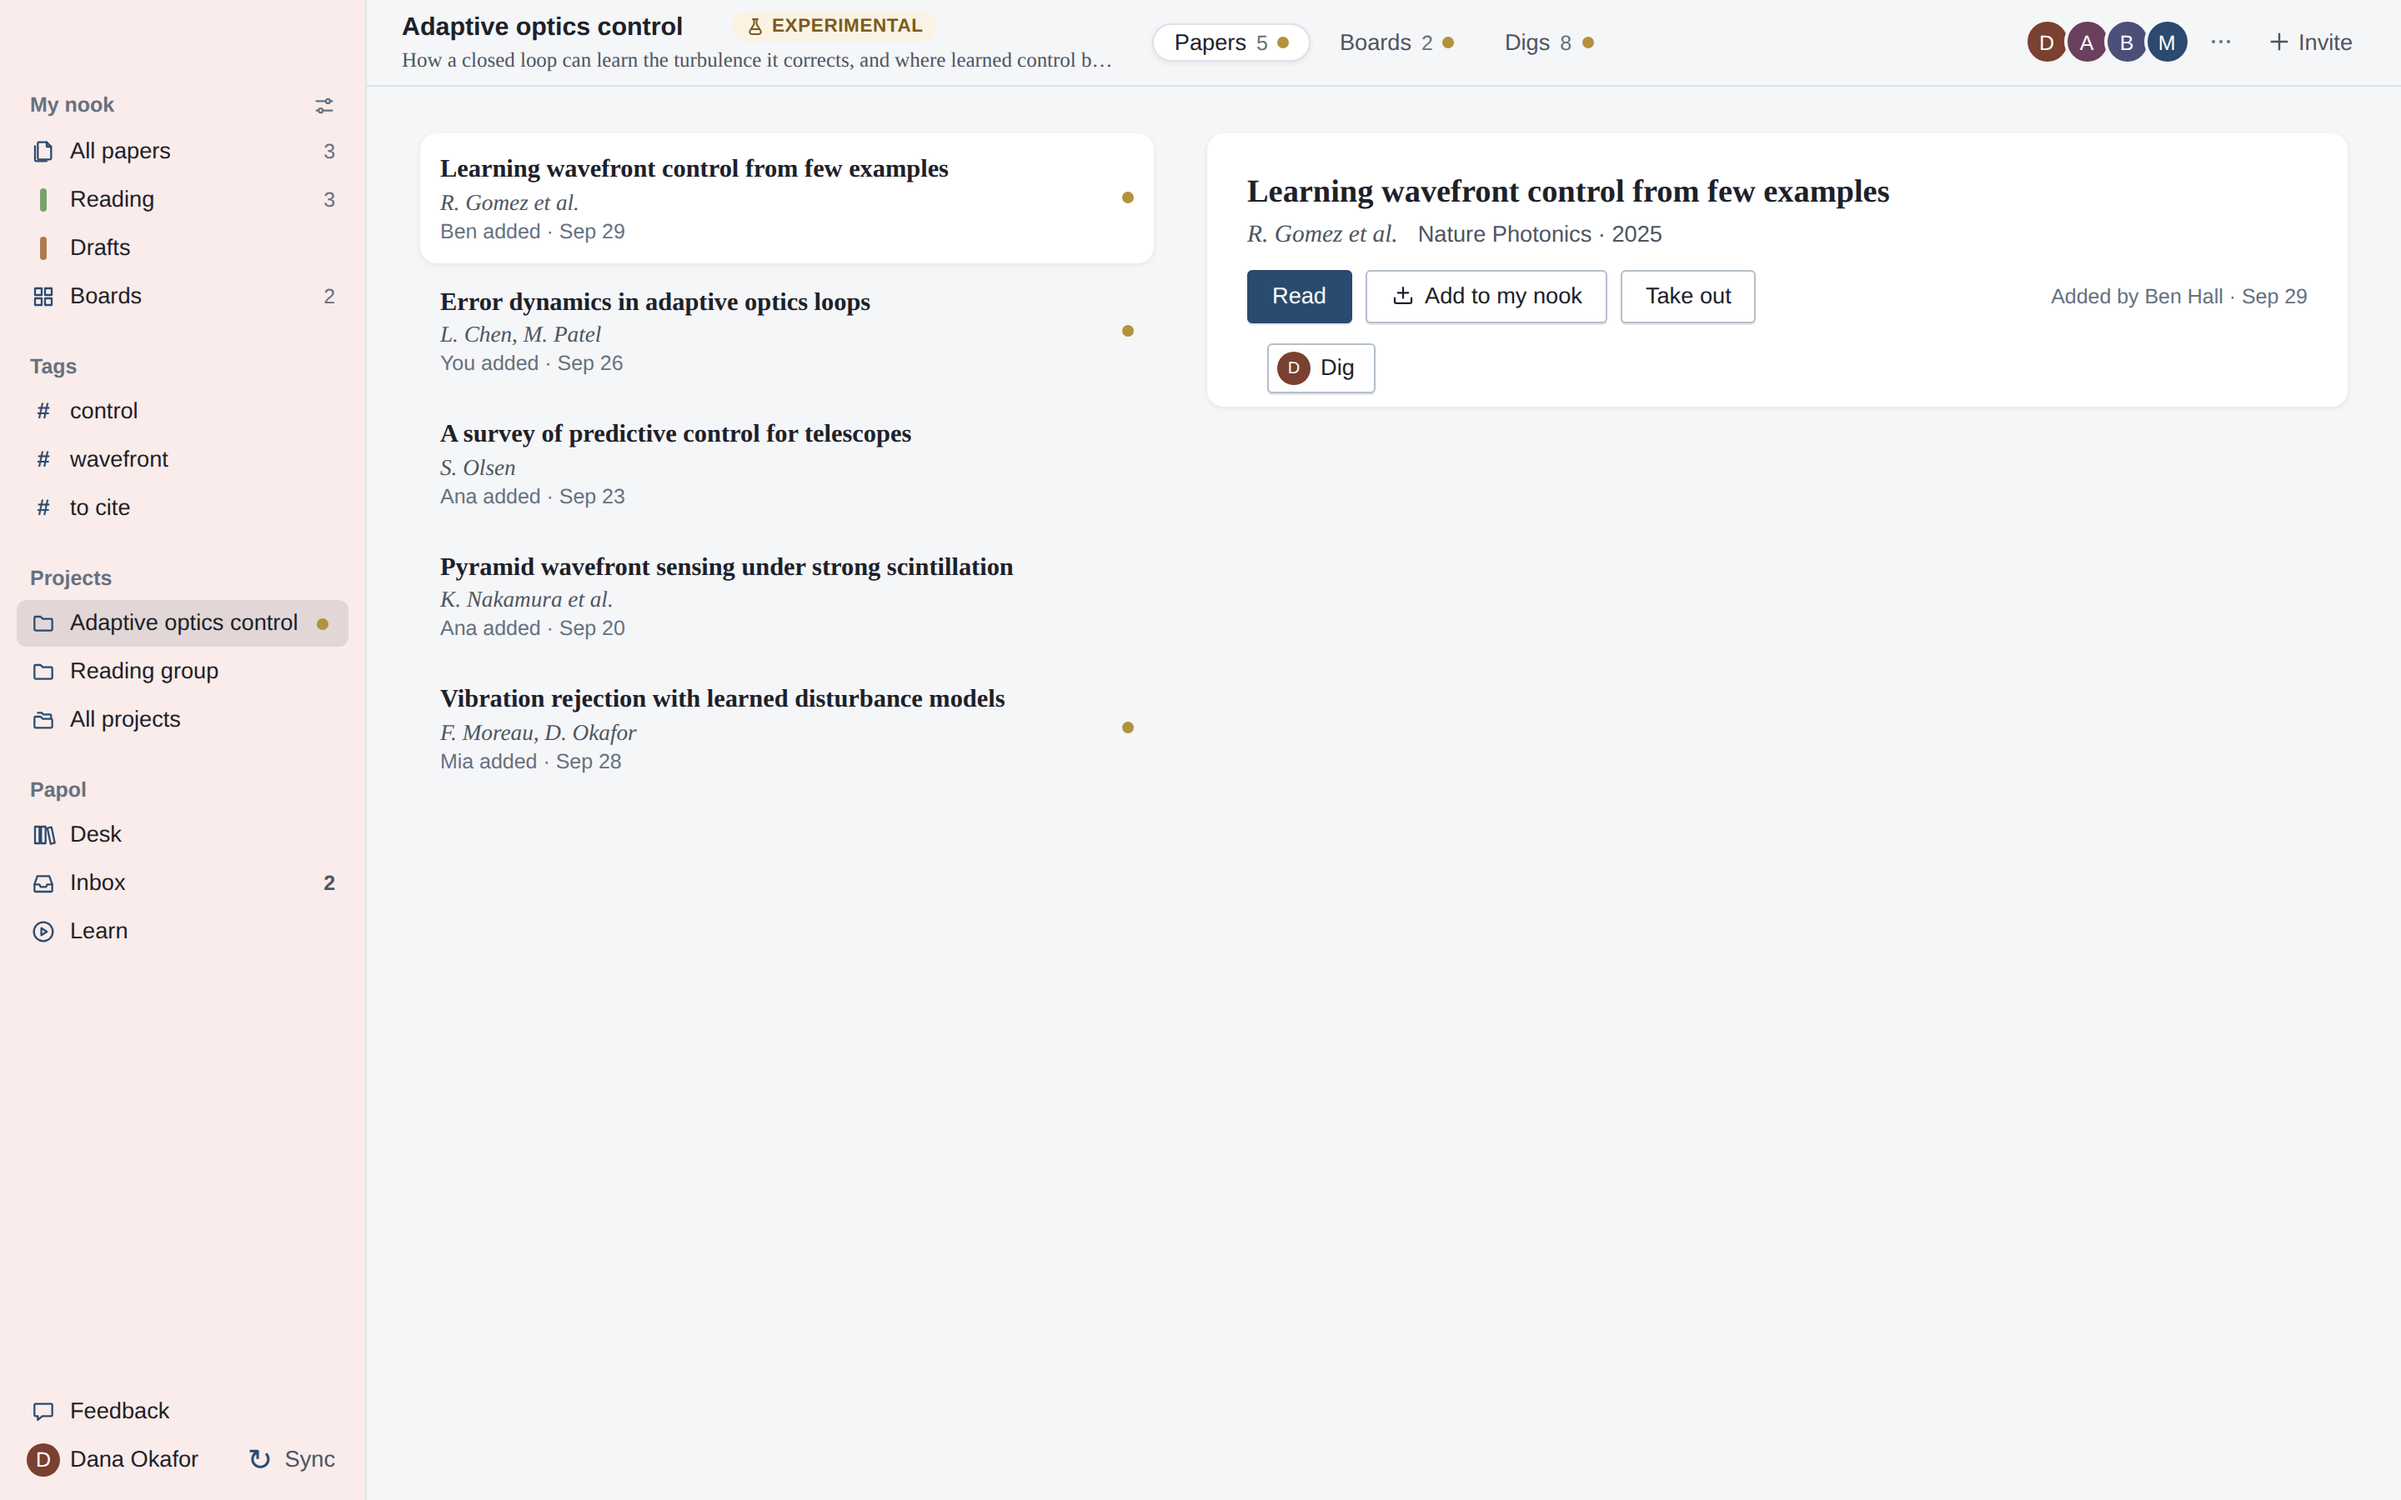
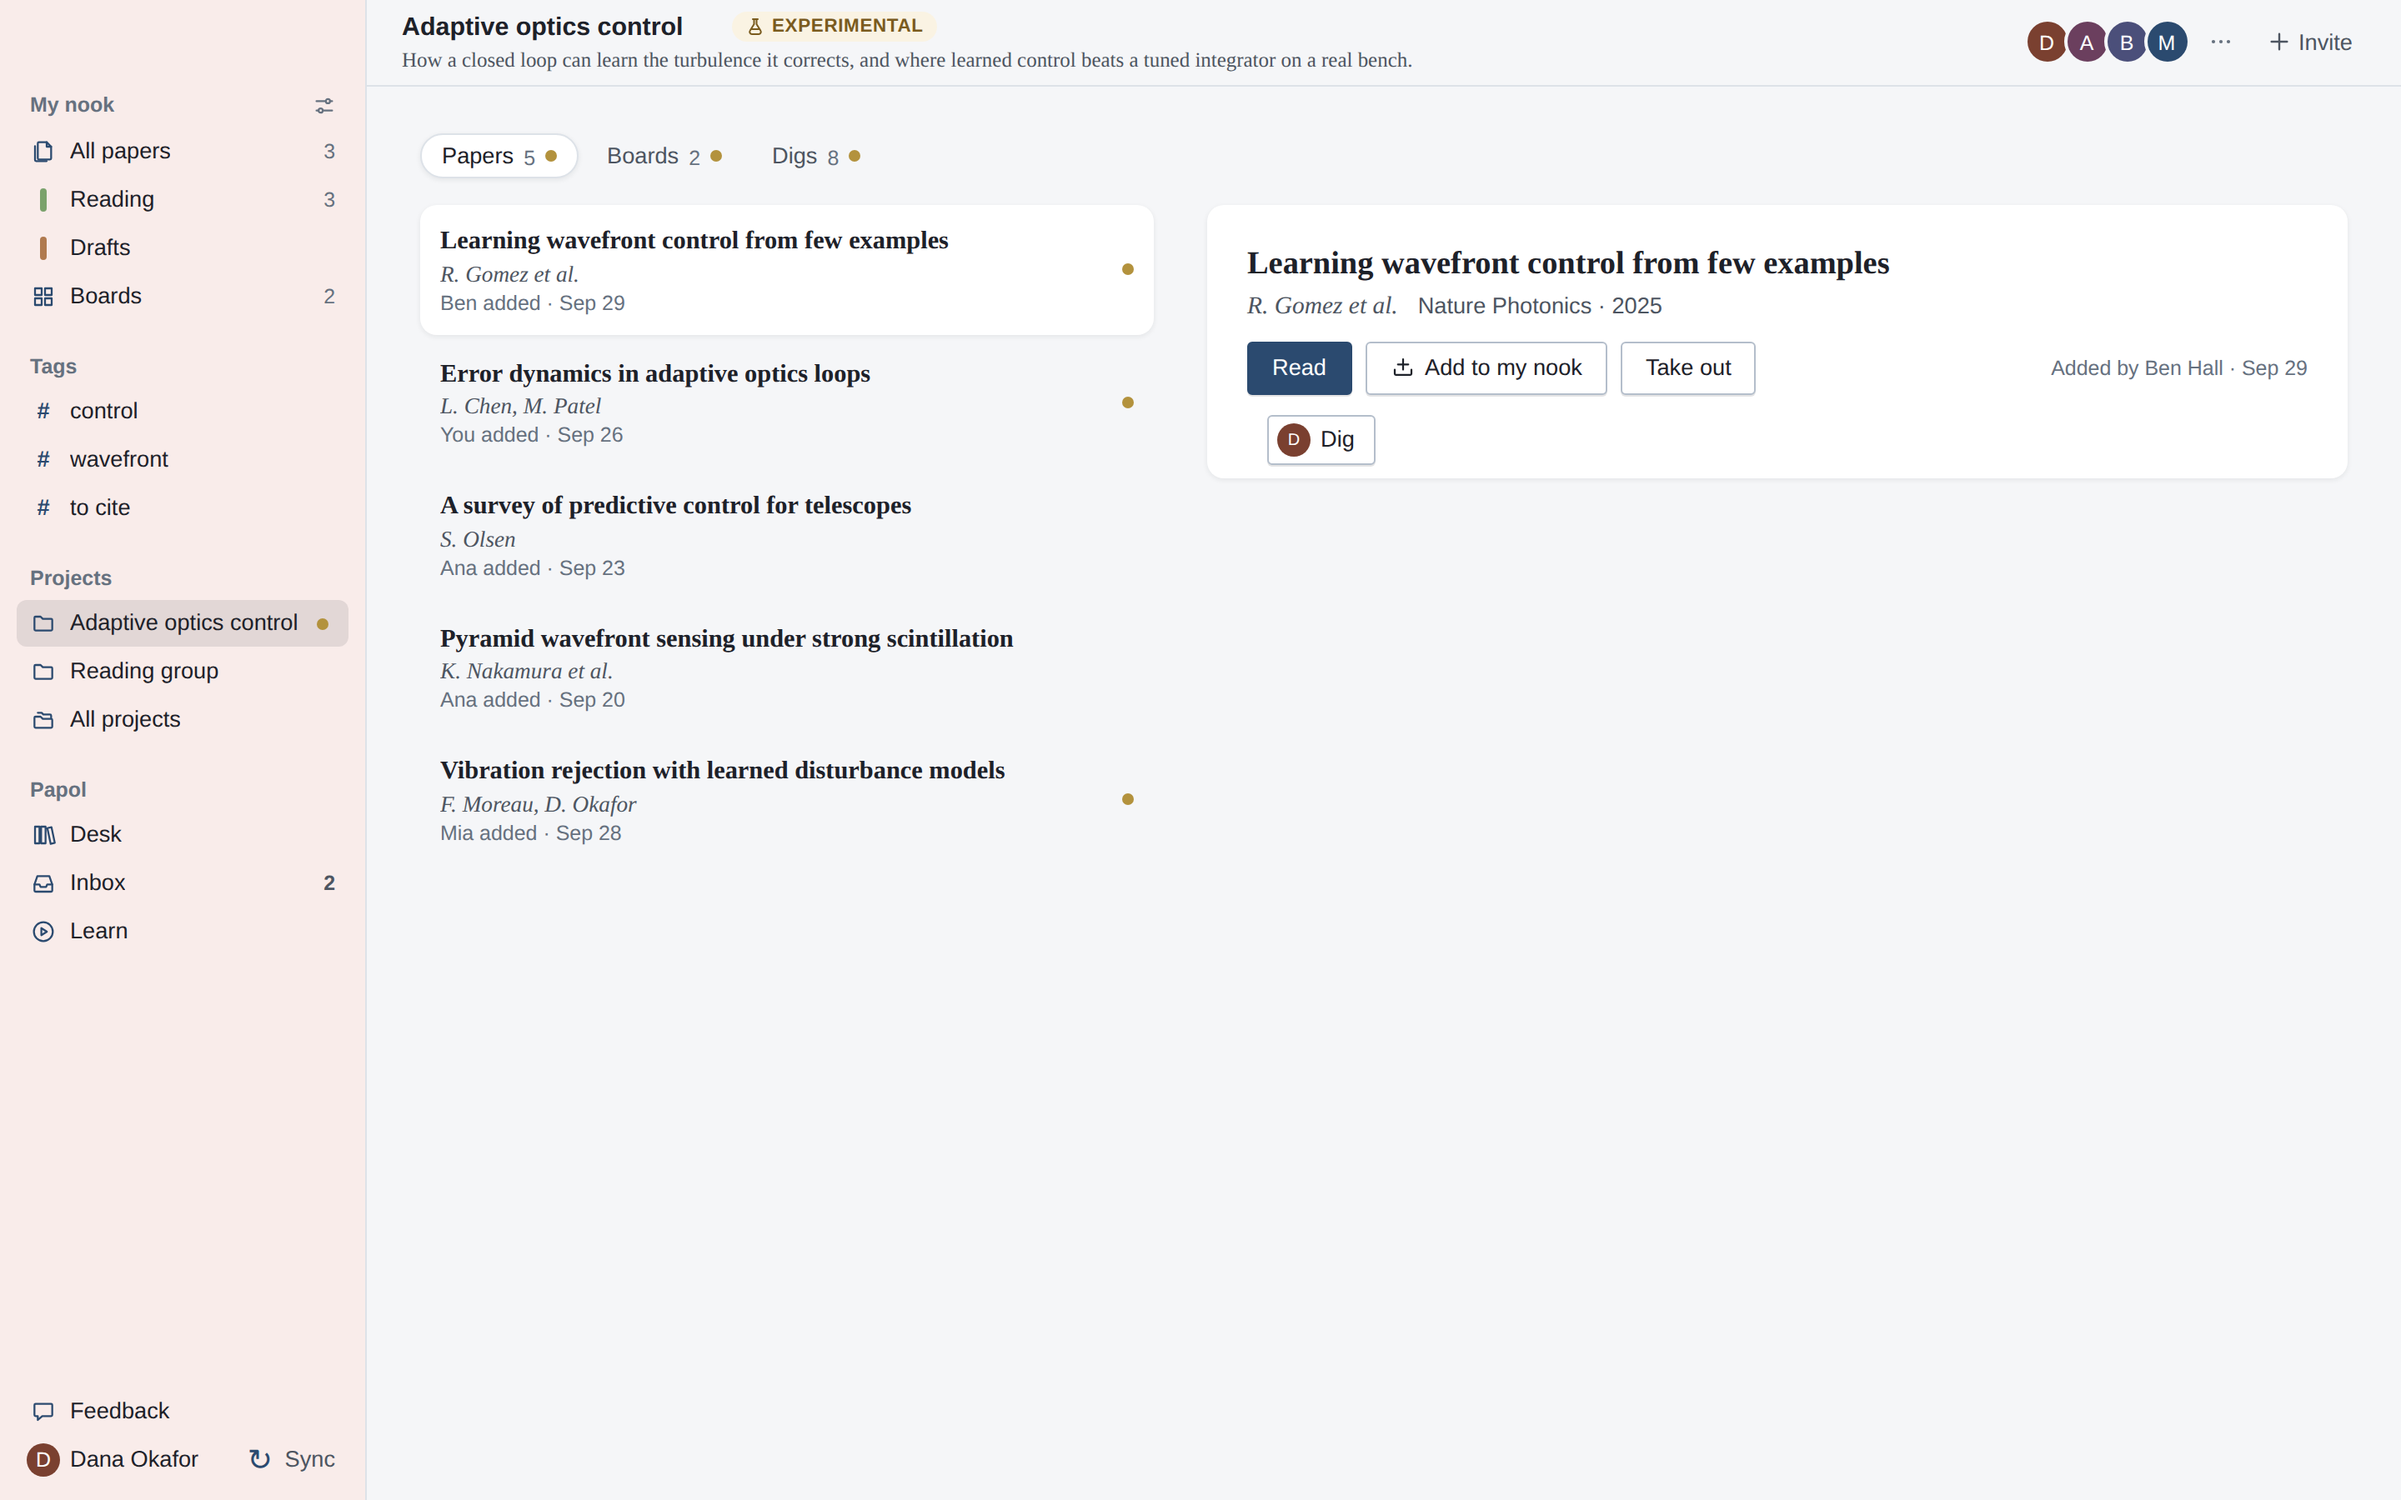
On the Mac, a project's three views sit over the list, as on the web
Cong asked for a better place for the Papers / Boards / Digs switcher in
the app. Three independent reviews (a Mac designer, a visual designer, an
engineer) agreed: it changes the page, not the window, so it belongs
top-left over the list it switches, where the web has it; centred in the
toolbar it was far from the list and squeezed the name and description.
The toolbar now holds the name, badge and description on the left and
the faces and Invite on the right.

Claude-Session: https://claude.ai/code/session_01QZ3STKFM4X5SZo7yPQcrM1

diff --git a/shared/applicationStyles.js b/shared/applicationStyles.js
@@ -5396,9 +5396,8 @@ ${talkStyles}
 .project-toolbar { display: flex; flex: 1 1 0; flex-direction: column; justify-content: center; align-items: stretch; gap: 0; min-width: 0; }
 .project-toolbar .project-title-line { flex-wrap: nowrap; }
 .project-toolbar .project-title { flex: 0 1 auto; max-width: 100%; margin: 0; font: 600 var(--fs-base)/1.3 var(--font-ui); }
-.desktop-toolbar .project-tabs { flex: none; margin: 0; }
-.desktop-toolbar .project-tab { padding: 3px var(--space-3); }
-.desktop-toolbar .project-seats { flex: 1 1 0; justify-content: flex-end; align-items: center; gap: var(--space-1); }
+[data-shell='desktop'] .project-page > .project-tabs { margin: 0 0 var(--space-4); }
+.desktop-toolbar .project-seats { flex: none; margin-left: auto; justify-content: flex-end; align-items: center; gap: var(--space-1); }
 .desktop-toolbar .project-seat-row { gap: 0; }
 .desktop-toolbar .project-seat-more { align-self: center; margin: 0 0 0 var(--space-1); }
 .desktop-toolbar .project-seat { width: auto; margin-left: -4px; padding: 2px; border-radius: 50%; }

diff --git a/frontend/src/components/ProjectPage.jsx b/frontend/src/components/ProjectPage.jsx
@@ -189,8 +189,9 @@ export default function ProjectPage({ projectUuid, currentUser, onBack, backHref
     <p className="project-crowd"><Faces users={people} /><span>{count}</span></p>
   );
 
-  // In the Mac app a member's desk has no header: its name, its three views
-  // and its people sit in the window's toolbar, and the sidebar is the way back.
+  // In the Mac app a member's desk has no header: its name and its people
+  // sit in the window's toolbar, and the sidebar is the way back. Its three
+  // views stay with the page they change, over the list, as on the web.
   const inToolbar = DESKTOP && project.is_member;
 
   return (
@@ -205,9 +206,9 @@ export default function ProjectPage({ projectUuid, currentUser, onBack, backHref
               </div>
               {about}
             </div>
-            {tabs}
             {seats}
           </InToolbar>
+          {tabs}
         </>
       ) : (
         <>

diff --git a/frontend/src/projectDescription.test.js b/frontend/src/projectDescription.test.js
@@ -30,3 +30,8 @@ test('it is one line under a smaller name, its words level with the name', () =>
   assert.match(styles, /\.project-description \{[^}]*margin: 0 0 0 calc\(-1 \* var\(--space-2\)\); padding: 0 var\(--space-2\);[^}]*text-overflow: ellipsis; white-space: nowrap;/);
   assert.match(styles, /#way-slot \.project-title \{ font-size: var\(--fs-2xl\);/);
 });
+
+test('on the Mac the three views sit over the list, as on the web, not in the toolbar', () => {
+  assert.match(page, /\{seats\}\s*<\/InToolbar>\s*\{tabs\}/);
+  assert.doesNotMatch(styles, /\.desktop-toolbar \.project-tabs/);
+});
